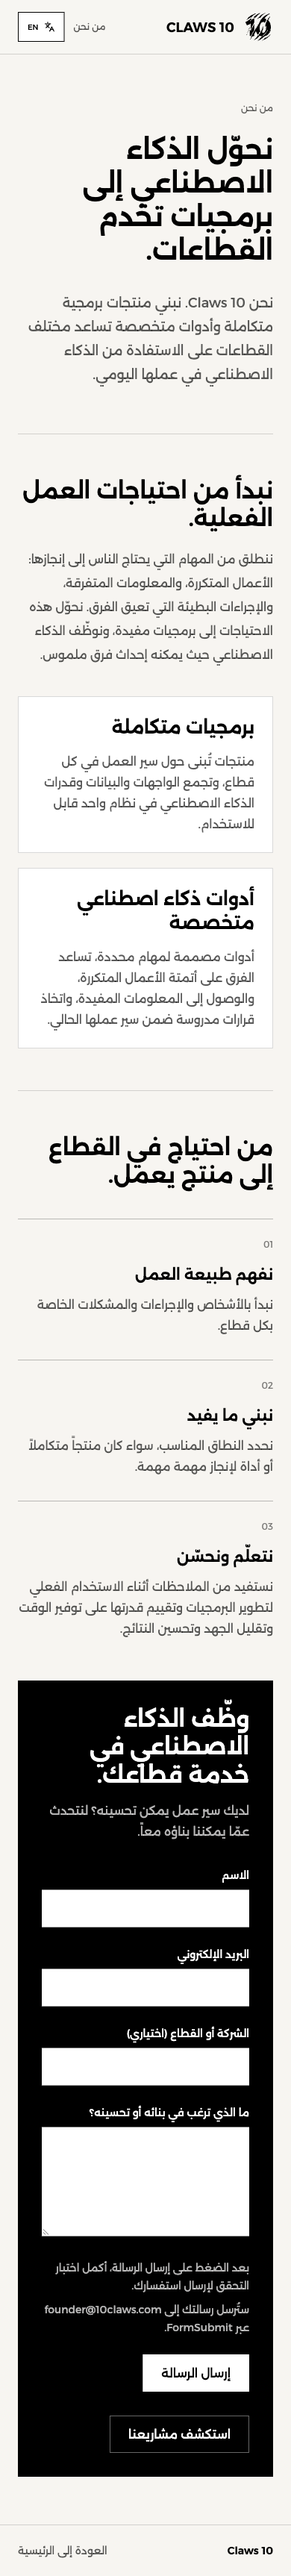
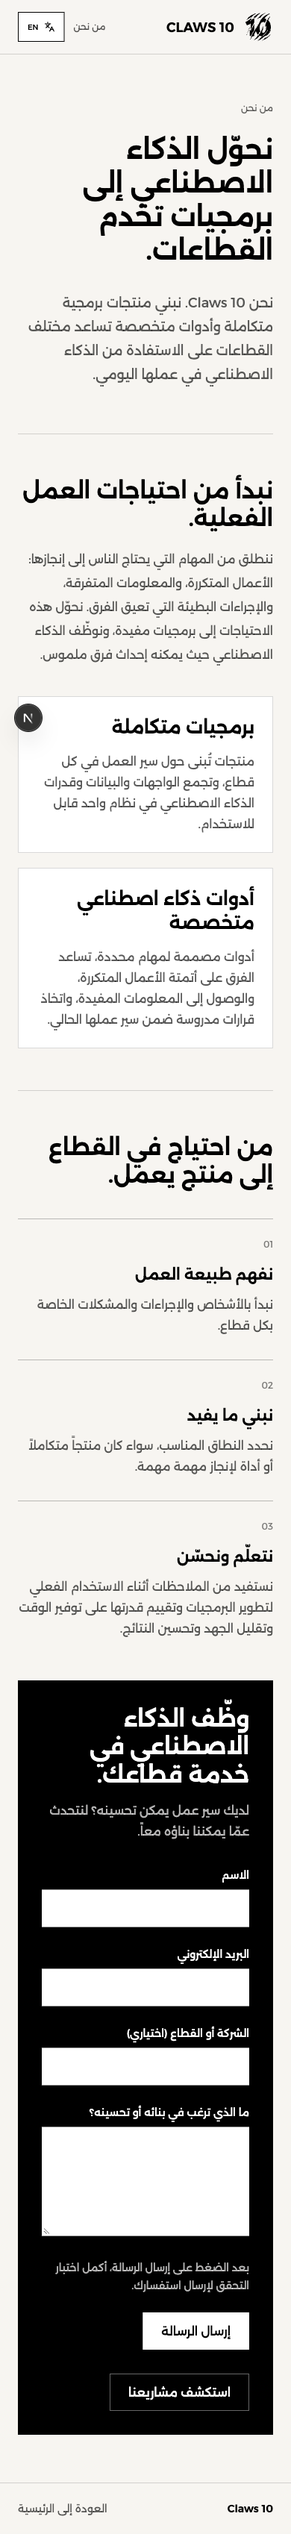
docs: refresh project guide and remove visible contact email

diff --git a/components/about-contact-form.tsx b/components/about-contact-form.tsx
@@ -12,7 +12,7 @@ export function AboutContactForm({ locale }: { locale: SupportedLocale }) {
       acceptCharset="UTF-8"
       className="mt-8 max-w-3xl space-y-6"
       aria-label={content.contact}
-      aria-describedby="contact-delivery contact-captcha"
+      aria-describedby="contact-captcha"
     >
       <input type="hidden" name="_subject" value="10 Claws — About Us enquiry" />
       <input type="hidden" name="_captcha" value="true" />
@@ -39,7 +39,6 @@ export function AboutContactForm({ locale }: { locale: SupportedLocale }) {
       </div>
       <div className="space-y-2 text-sm leading-6 text-white/70">
         <p id="contact-captcha">{content.form.captcha}</p>
-        <p id="contact-delivery">{content.form.delivery}</p>
       </div>
       <button type="submit" className="border border-white bg-white px-6 py-3 font-medium text-black hover:bg-white/90 focus-visible:outline focus-visible:outline-2 focus-visible:outline-offset-4 focus-visible:outline-white">
         {content.contact}

diff --git a/lib/about/content.ts b/lib/about/content.ts
@@ -26,7 +26,6 @@ export const aboutContent = {
       company: "Company or industry (optional)",
       message: "What would you like to build or improve?",
       captcha: "After you press Send message, complete the CAPTCHA to submit your enquiry.",
-      delivery: "Your message will be sent to founder@10claws.com through FormSubmit.",
     },
     projects: "Explore our projects",
     home: "Back to home",
@@ -58,7 +57,6 @@ export const aboutContent = {
       company: "الشركة أو القطاع (اختياري)",
       message: "ما الذي ترغب في بنائه أو تحسينه؟",
       captcha: "بعد الضغط على إرسال الرسالة، أكمل اختبار التحقق لإرسال استفسارك.",
-      delivery: "ستُرسل رسالتك إلى founder@10claws.com عبر FormSubmit.",
     },
     projects: "استكشف مشاريعنا",
     home: "العودة إلى الرئيسية",

diff --git a/README.md b/README.md
@@ -1,43 +1,163 @@
-# 10claws
+# 10 Claws
 
-*Automatically synced with your [v0.dev](https://v0.dev) deployments*
+10 Claws is a bilingual build-in-public portfolio for testing whether AI can produce measurable leverage across a group of real projects. The public site shows what is being built, the tools being used, operating progress, future bets, and a curated technology watchlist. An authenticated admin dashboard keeps the underlying portfolio data current.
 
+[![Live site](https://img.shields.io/badge/Live-10claws.com-black?style=for-the-badge)](https://www.10claws.com/en)
 [![Deployed on Vercel](https://img.shields.io/badge/Deployed%20on-Vercel-black?style=for-the-badge&logo=vercel)](https://vercel.com/bannaa/v0-10x-builder-ai-website)
-[![Built with v0](https://img.shields.io/badge/Built%20with-v0.dev-black?style=for-the-badge)](https://v0.dev/chat/projects/Jj03MH9lC8M)
+[![Built with Next.js](https://img.shields.io/badge/Next.js-15-black?style=for-the-badge&logo=next.js)](https://nextjs.org/)
 
-## Overview
+## What the site contains
 
-This is the 10claws marketing site and admin dashboard.
+All public pages are available in English and Arabic through the `app/[locale]/` route segment.
 
-- Live site: **[https://www.10claws.com/](https://www.10claws.com/)**
-- Frontend: Next.js 15 App Router
-- Backend: Convex
-- Admin auth: Better Auth with the Convex adapter
+| Route | Purpose | Source of truth |
+| --- | --- | --- |
+| `/en` · `/ar` | Portfolio homepage with project status, progress, tools, and AI skills | Convex, with checked-in fallback projects |
+| `/en/progress` · `/ar/progress` | Public metrics, achievements, and roadmap cards | Convex |
+| `/en/stack` · `/ar/stack` | Tool and AI-skill inventory with grades, familiarity, and project usage | Convex |
+| `/en/future` · `/ar/future` | Reviewed future bets rendered through a constrained component catalog | `lib/future/specs.ts` |
+| `/en/track` · `/ar/track` | Curated updates for coding agents, infrastructure, and agentic commerce | `lib/track/data.ts` |
+| `/en/about` · `/ar/about` | Company overview and CAPTCHA-protected enquiry form | `lib/about/content.ts` and FormSubmit |
+| `/en/admin` · `/ar/admin` | Authenticated management for projects, stack, metrics, roadmap, copy, and users | Convex + Better Auth |
 
-## Commands
+The Future page does not generate content at runtime. Its English and Arabic JSON-render specs are checked in, validated against `lib/future/catalog.ts`, reviewed, and then deployed. Track follows a similar reviewed-content model so scheduled research updates can safely modify one typed data module.
 
-- `pnpm dev` starts the local Next.js app
-- `pnpm build` creates a production build
-- `pnpm start` runs the production build
-- `pnpm lint` runs ESLint
-- `npx convex dev` pushes Convex changes to the configured dev deployment
-- `npx convex deploy` pushes Convex changes to the production deployment
+## Product architecture
 
-## Deployments
+```text
+Next.js App Router
+├── Public portfolio and research pages
+├── Authenticated admin dashboard
+├── next-intl locale routing (English + Arabic/RTL)
+└── Server-side data layer
+    ├── Convex queries and mutations
+    ├── 60-second public caches with revalidation tags
+    └── Checked-in fallback data for the homepage
 
-The repo now uses separate app runtime and Convex CLI targets on purpose.
+Convex
+├── Projects and stack relationships
+├── Project and global metrics
+├── Planning/roadmap cards
+├── Localized site copy
+├── Admin users and activity
+└── Better Auth integration
+```
 
-- App runtime envs in `.env.local` point at the production Convex deployment
-- Convex CLI still defaults to the dev deployment for local backend iteration
-- Production Convex changes should go through `npx convex deploy`
-- Production Convex env changes should go through `npx convex env set --prod ...`
+Content entered in English through the admin can be translated into Arabic through the OpenAI Responses API. Persisted localization records retain sync status and translation metadata; the public routes then select the requested locale in Convex.
 
-This keeps local Convex development safe while the app can still be verified against production data when needed.
+## Technology
 
-## Hosting
+- Next.js 15 App Router, React 19, and TypeScript
+- Tailwind CSS 4 and shadcn/ui-style Radix primitives
+- Convex for application data and server functions
+- Better Auth with the Convex adapter for admin sessions
+- next-intl for English and Arabic routing and messages
+- JSON Render for the constrained Future page
+- Vercel Analytics and Google Analytics
+- Vercel for hosting and continuous deployment
 
-GitHub pushes trigger the Vercel redeploy flow for the linked project.
+## Local development
 
-Continue building the source project on:
+Requirements:
 
-**[https://v0.dev/chat/projects/Jj03MH9lC8M](https://v0.dev/chat/projects/Jj03MH9lC8M)**
+- Node.js 22 or another version supported by Next.js 15
+- pnpm 10 (the exact version is pinned in `package.json`)
+- Access to the appropriate Convex deployment for live data and admin work
+
+Install dependencies and start the app:
+
+```bash
+pnpm install --frozen-lockfile
+pnpm dev
+```
+
+Open [http://localhost:3000/en](http://localhost:3000/en) or [http://localhost:3000/ar](http://localhost:3000/ar).
+
+### Environment variables
+
+Secrets belong in `.env.local` and must not be committed. The application reads the following variables:
+
+| Variable | Purpose |
+| --- | --- |
+| `NEXT_PUBLIC_CONVEX_URL` | Convex client and server query endpoint |
+| `NEXT_PUBLIC_CONVEX_SITE_URL` or `CONVEX_SITE_URL` | Convex HTTP/auth site endpoint |
+| `NEXT_PUBLIC_SITE_URL` or `SITE_URL` | Canonical application URL used by auth |
+| `BETTER_AUTH_SECRET` | Better Auth signing secret |
+| `OPENAI_API_KEY` | Optional; required for automatic admin-content translation |
+| `OPENAI_TRANSLATION_MODEL` | Optional translation-model override; defaults in `lib/translation.ts` |
+
+The current local runtime configuration points at production Convex URLs, while the Convex CLI defaults to the development deployment. Check the active target before changing backend data.
+
+## Commands and validation
+
+| Command | Purpose |
+| --- | --- |
+| `pnpm dev` | Start the local development server |
+| `pnpm lint` | Run Next.js ESLint checks |
+| `pnpm exec tsc --noEmit` | Run TypeScript validation explicitly |
+| `pnpm build` | Create an optimized production build |
+| `pnpm start` | Serve the completed production build |
+| `npx convex dev` | Push Convex changes to the configured development deployment |
+| `npx convex deploy` | Deploy Convex functions and schema to production |
+| `npx convex env set --prod NAME VALUE` | Set a production Convex environment variable |
+
+`next.config.mjs` currently allows production builds to continue when TypeScript or ESLint errors exist. A successful build is therefore not a substitute for `pnpm exec tsc --noEmit` and targeted browser checks.
+
+Run `pnpm lint` separately as part of validation; the current Next.js ESLint checks pass with the installed configuration.
+
+There is no general unit-test runner configured. The `tests/` directory contains standalone integration scripts, including a persisted project-update check that requires `.env.local` and a TypeScript-capable runner.
+
+For a public-page change, the expected verification path is:
+
+```bash
+pnpm exec tsc --noEmit
+pnpm build
+pnpm exec next start -p 3000
+```
+
+Then check the affected English and Arabic routes in a browser, including RTL layout and console errors.
+
+## Updating content
+
+Use the authenticated admin dashboard for portfolio data:
+
+- projects and their statuses
+- stack items and project relationships
+- project and global metrics
+- public roadmap cards
+- localized site copy
+- admin users
+
+Use checked-in files for reviewed research surfaces:
+
+- Update `lib/future/specs.ts` for Future page copy and structure. Keep English and Arabic aligned and stay within `lib/future/catalog.ts`.
+- Update `lib/track/data.ts` for technology topics and dated signals. Cite primary sources and distinguish dated releases from undated source snapshots.
+- Update `messages/en.json` and `messages/ar.json` together when changing message-catalog copy.
+
+## Repository structure
+
+```text
+app/                 Next.js routes, localized pages, and API handlers
+components/          Public UI, admin managers, and shared primitives
+convex/              Schema, queries, mutations, auth, and generated bindings
+i18n/                next-intl routing and request configuration
+lib/                 Data access, caching, localization, and reviewed page data
+messages/            English and Arabic message catalogs
+public/              Logos, social image, manifest, and static assets
+tests/               Standalone integration checks
+types/               Shared application and persistence types
+```
+
+## Deployment
+
+Pull requests and GitHub pushes flow through the linked Vercel project. Public frontend changes deploy through Vercel after merge.
+
+Convex production changes are a separate operation and must be deployed deliberately:
+
+```bash
+npx convex deploy
+```
+
+Do not assume a Vercel deployment also publishes Convex schema or function changes.
+
+The project remains linked to its original [v0 workspace](https://v0.dev/chat/projects/Jj03MH9lC8M). Coordinate edits made in v0 with this repository to avoid source drift.
